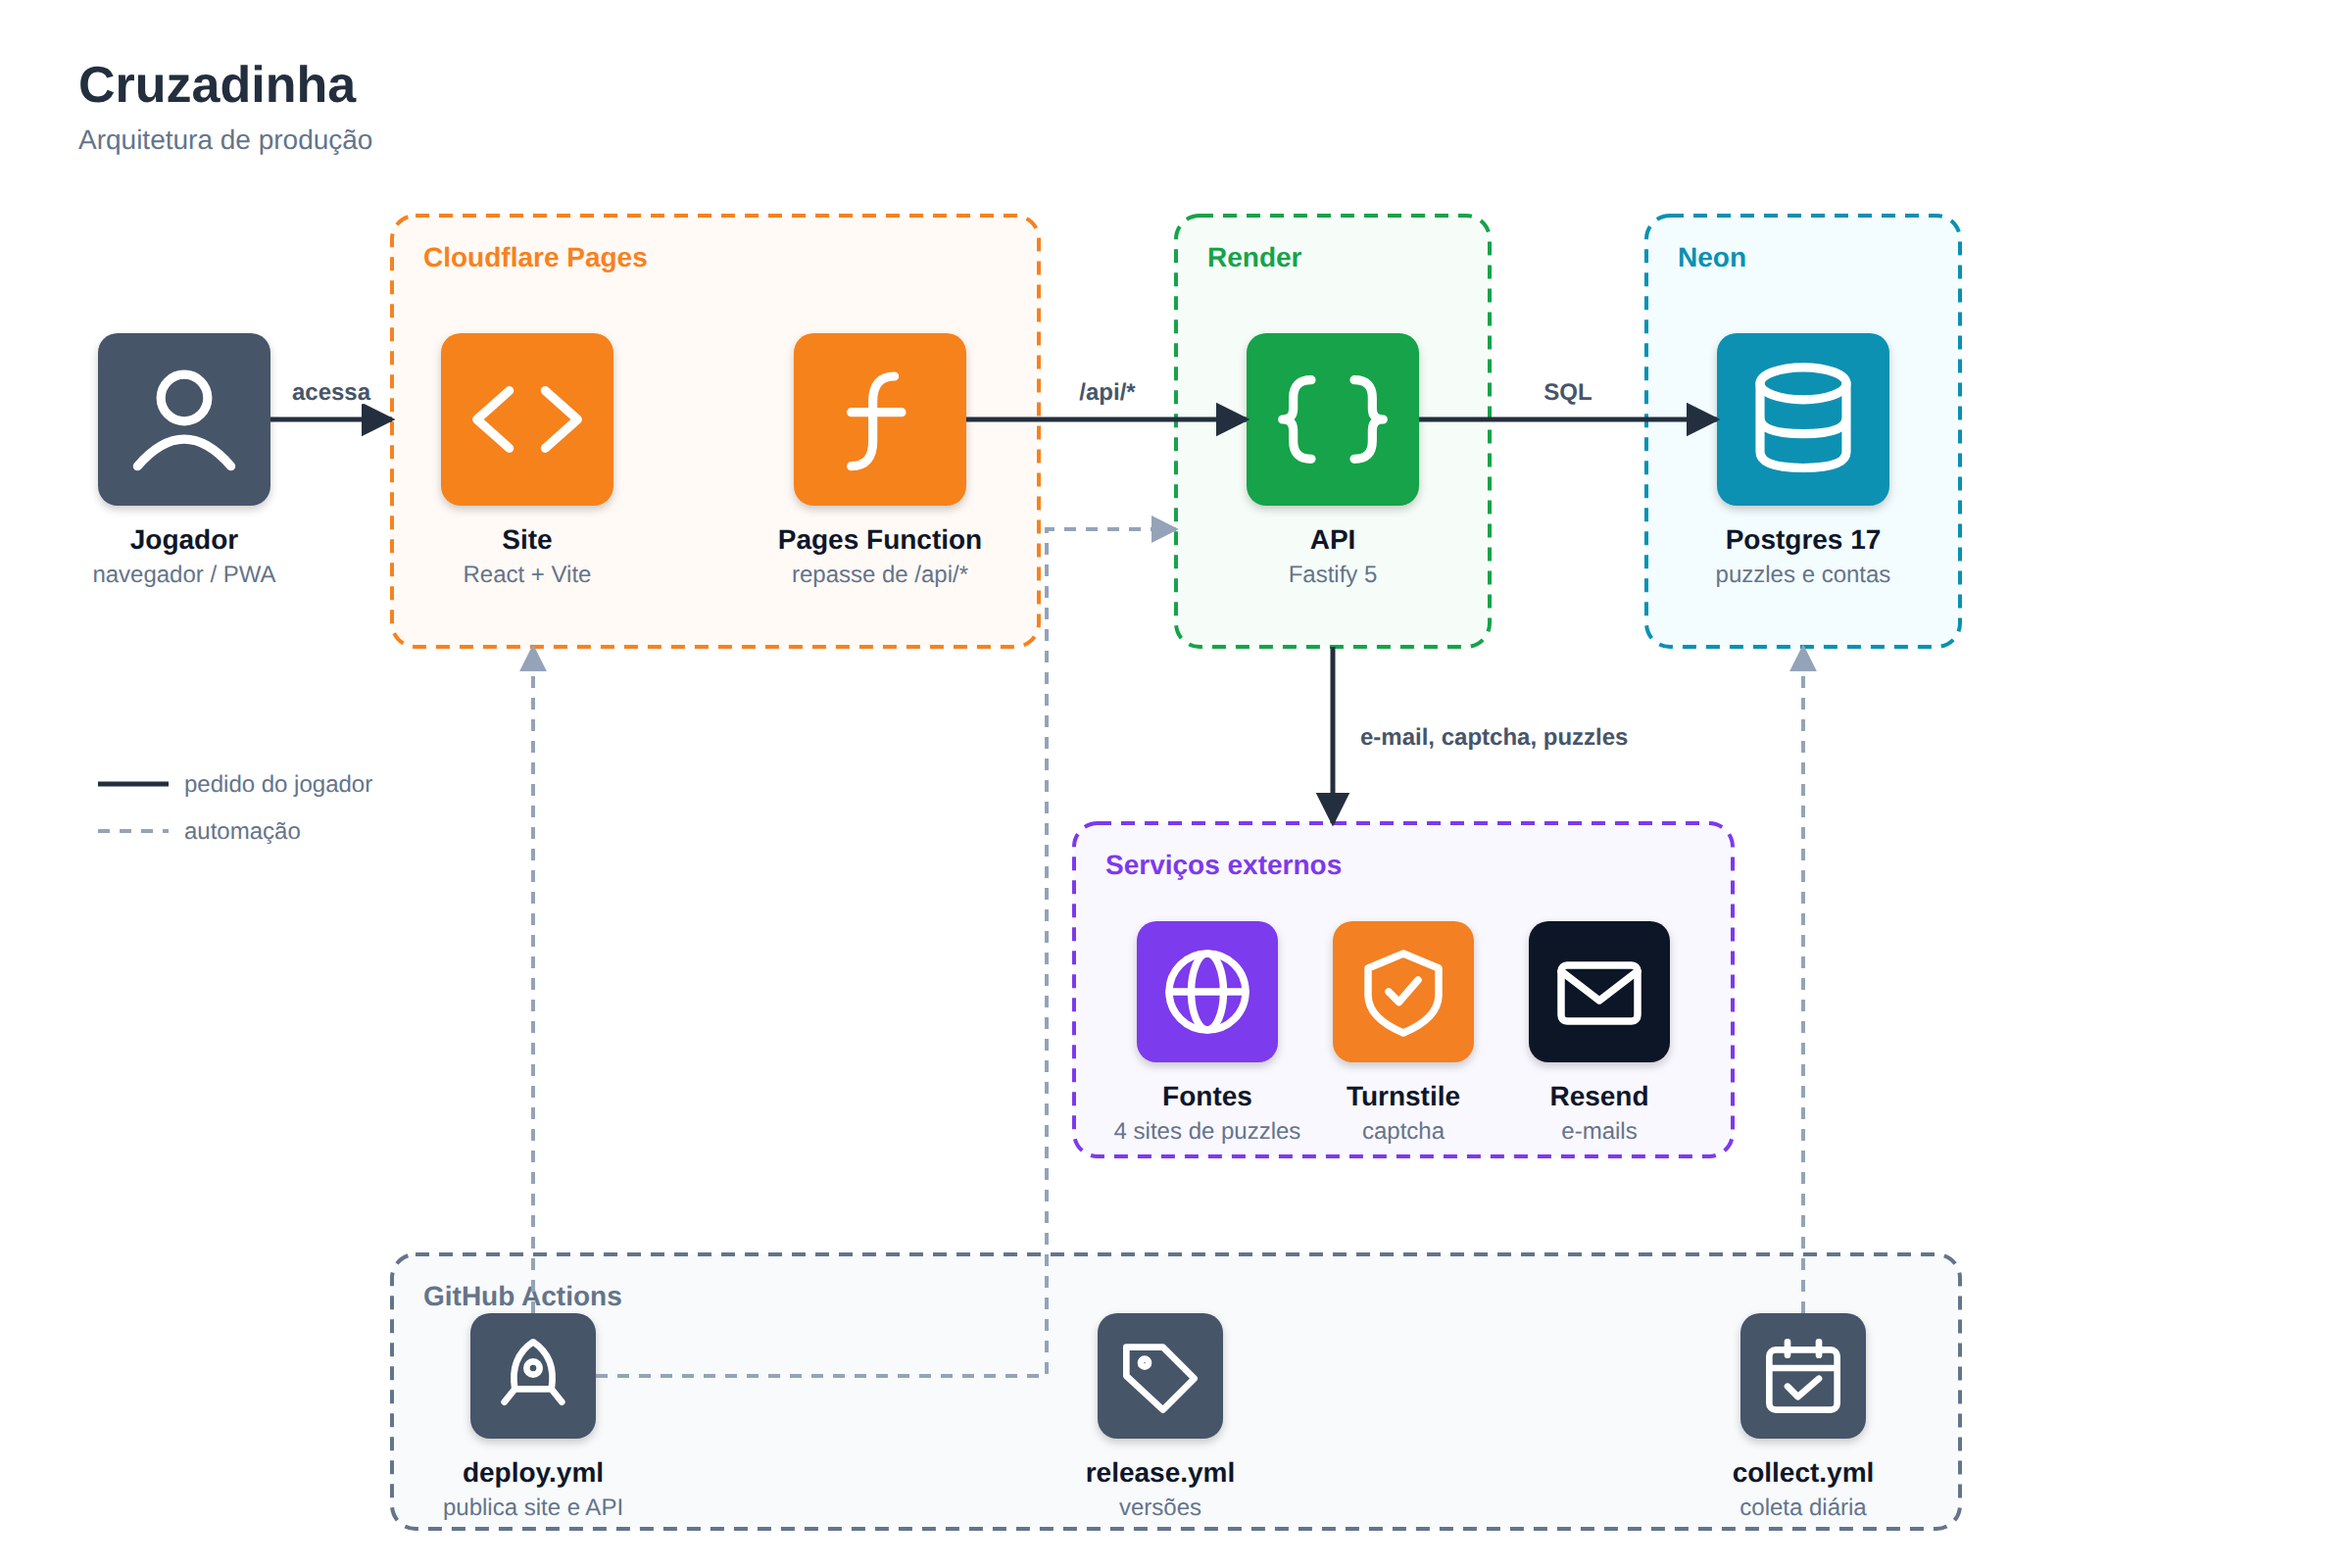
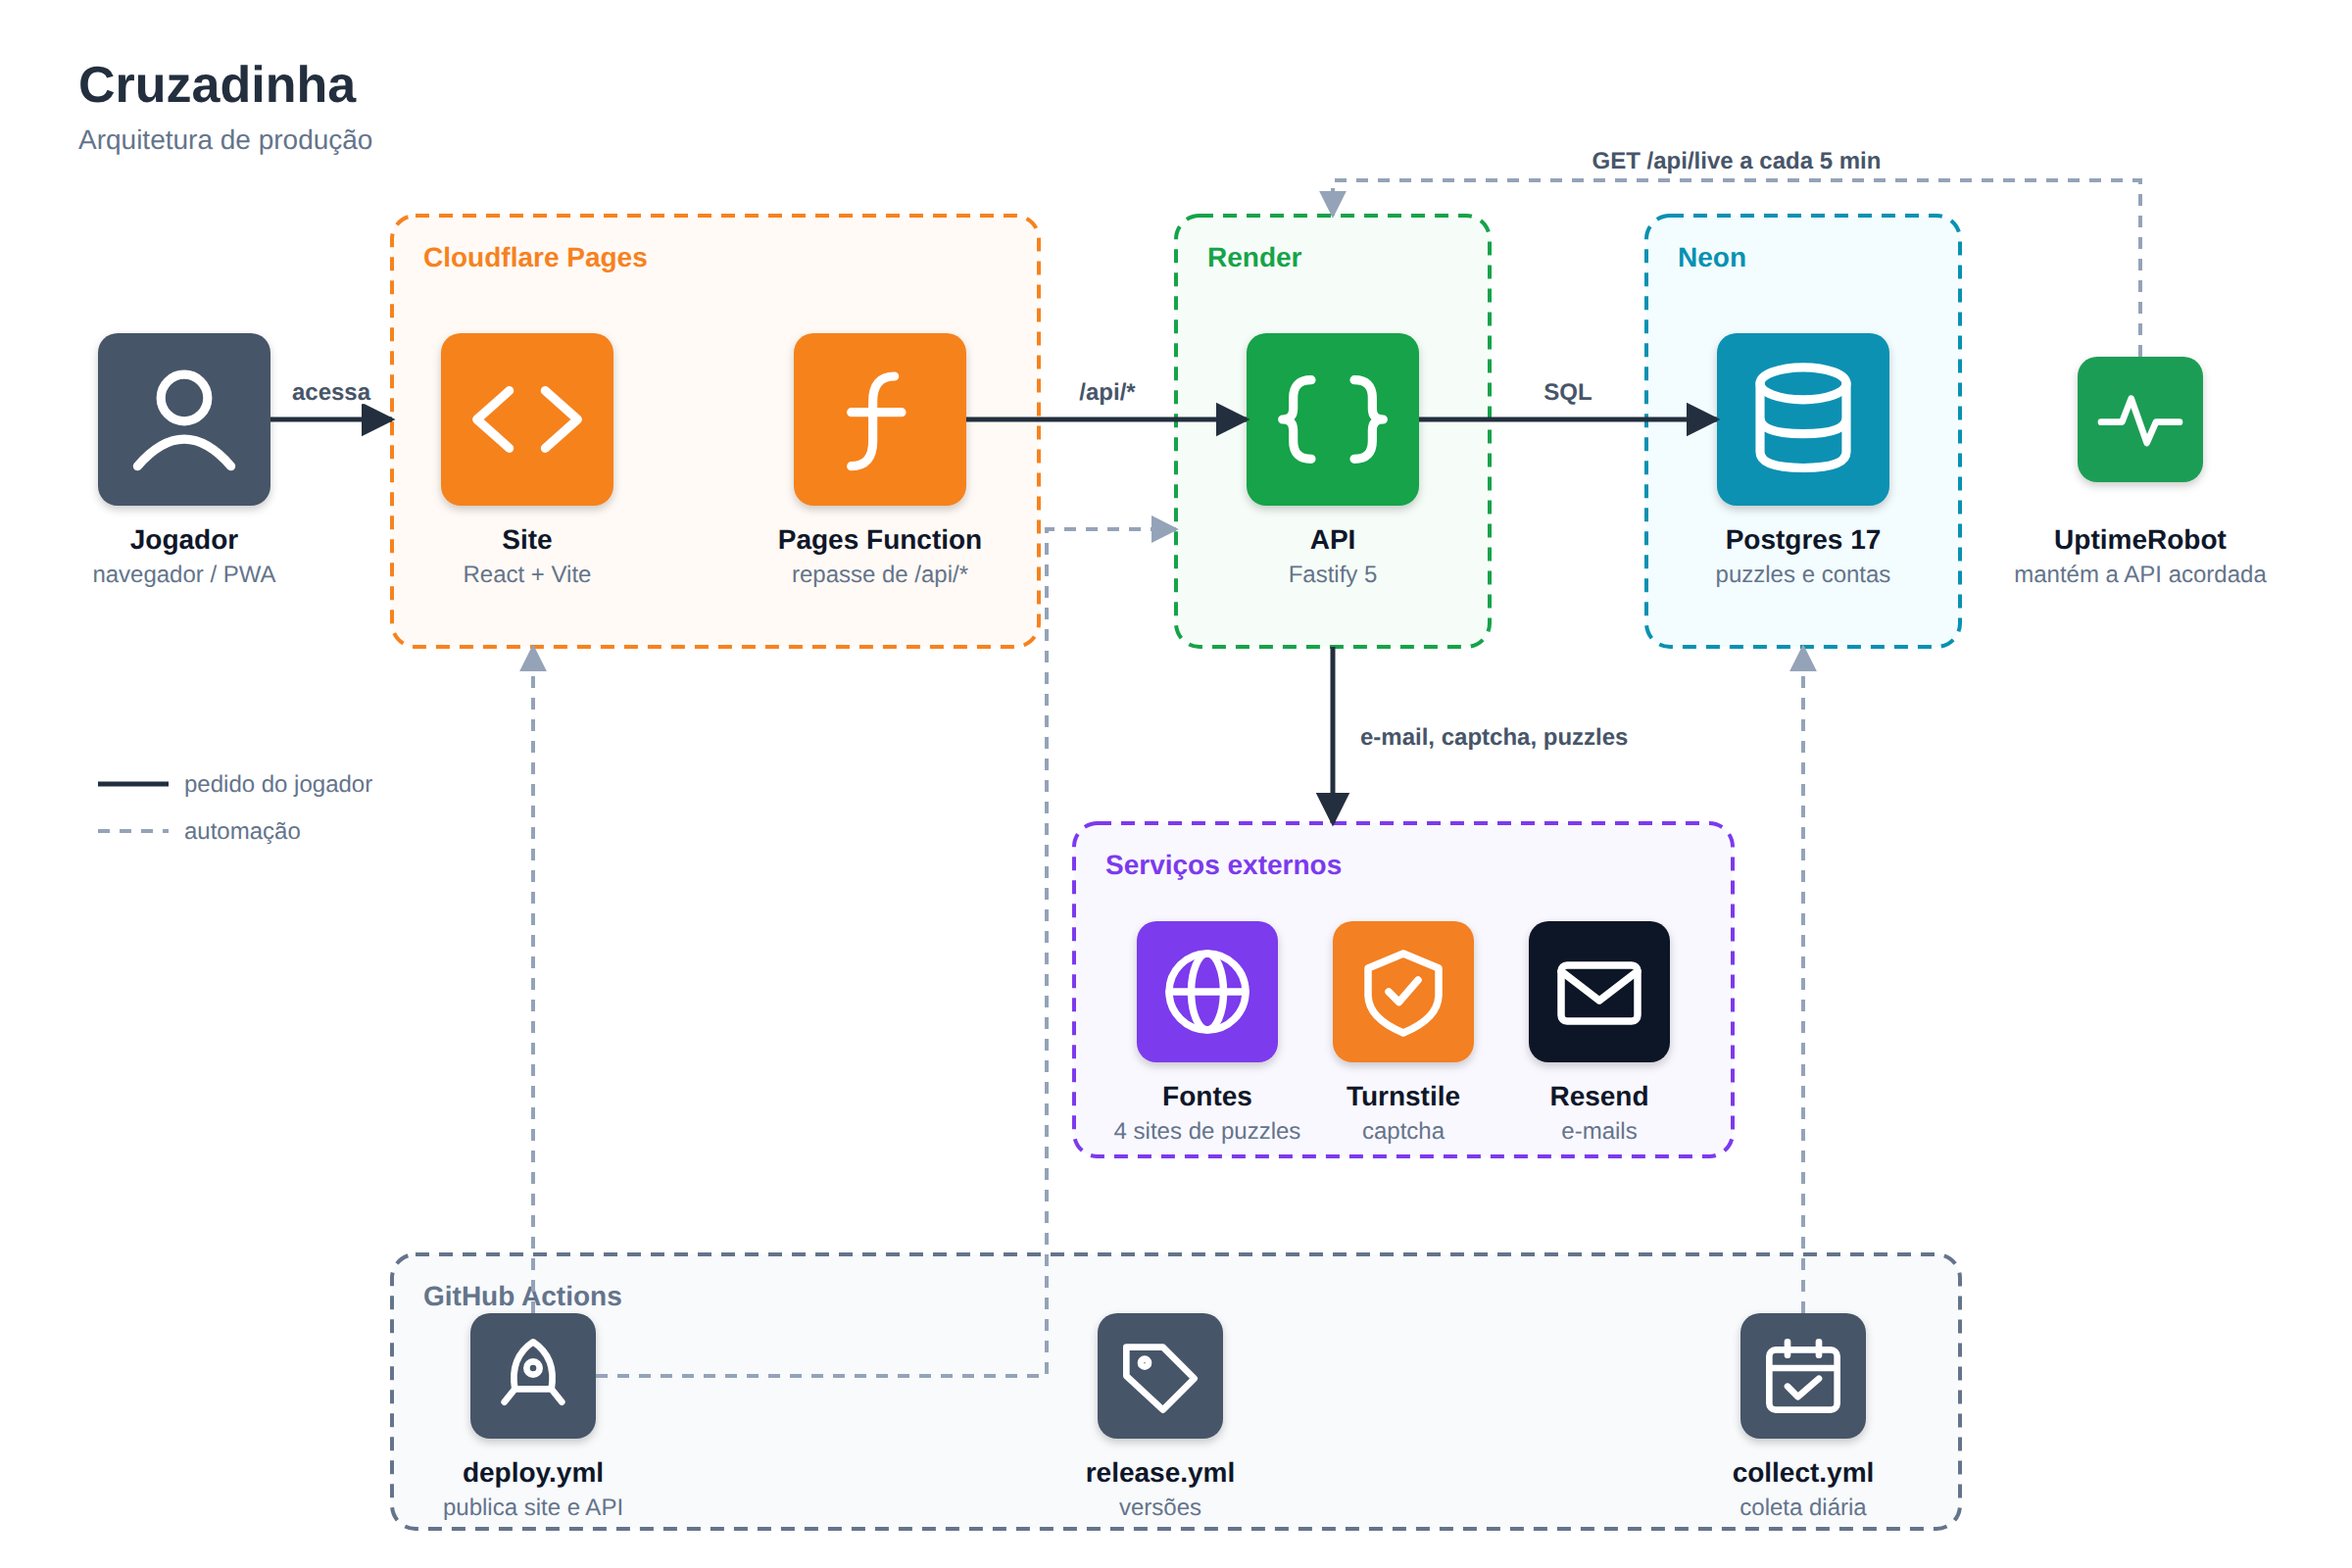
docs: update the landing screenshot and add the keep-awake ping to the infra diagram

Changed region(s): [[0.875, 0.2188, 0.9375, 0.3125], [0.6562, 0.0938, 0.8125, 0.125], [0.8438, 0.3438, 0.9688, 0.375]]

diff --git a/README.md b/README.md
@@ -34,7 +34,7 @@ Monorepo em npm workspaces, tudo em TypeScript (modo estrito):
 
 ## Infraestrutura
 
-![Infraestrutura do Cruzadinha: site no Cloudflare Pages, API no Render, Postgres no Neon, serviços externos e automações no GitHub Actions](docs/images/infraestrutura.png)
+![Infraestrutura do Cruzadinha: site no Cloudflare Pages, API no Render, Postgres no Neon, serviços externos, automações no GitHub Actions e o ping do UptimeRobot que mantém a API acordada](docs/images/infraestrutura.png)
 
 O detalhe de cada peça está em [`docs/deploy.md`](docs/deploy.md).
 
